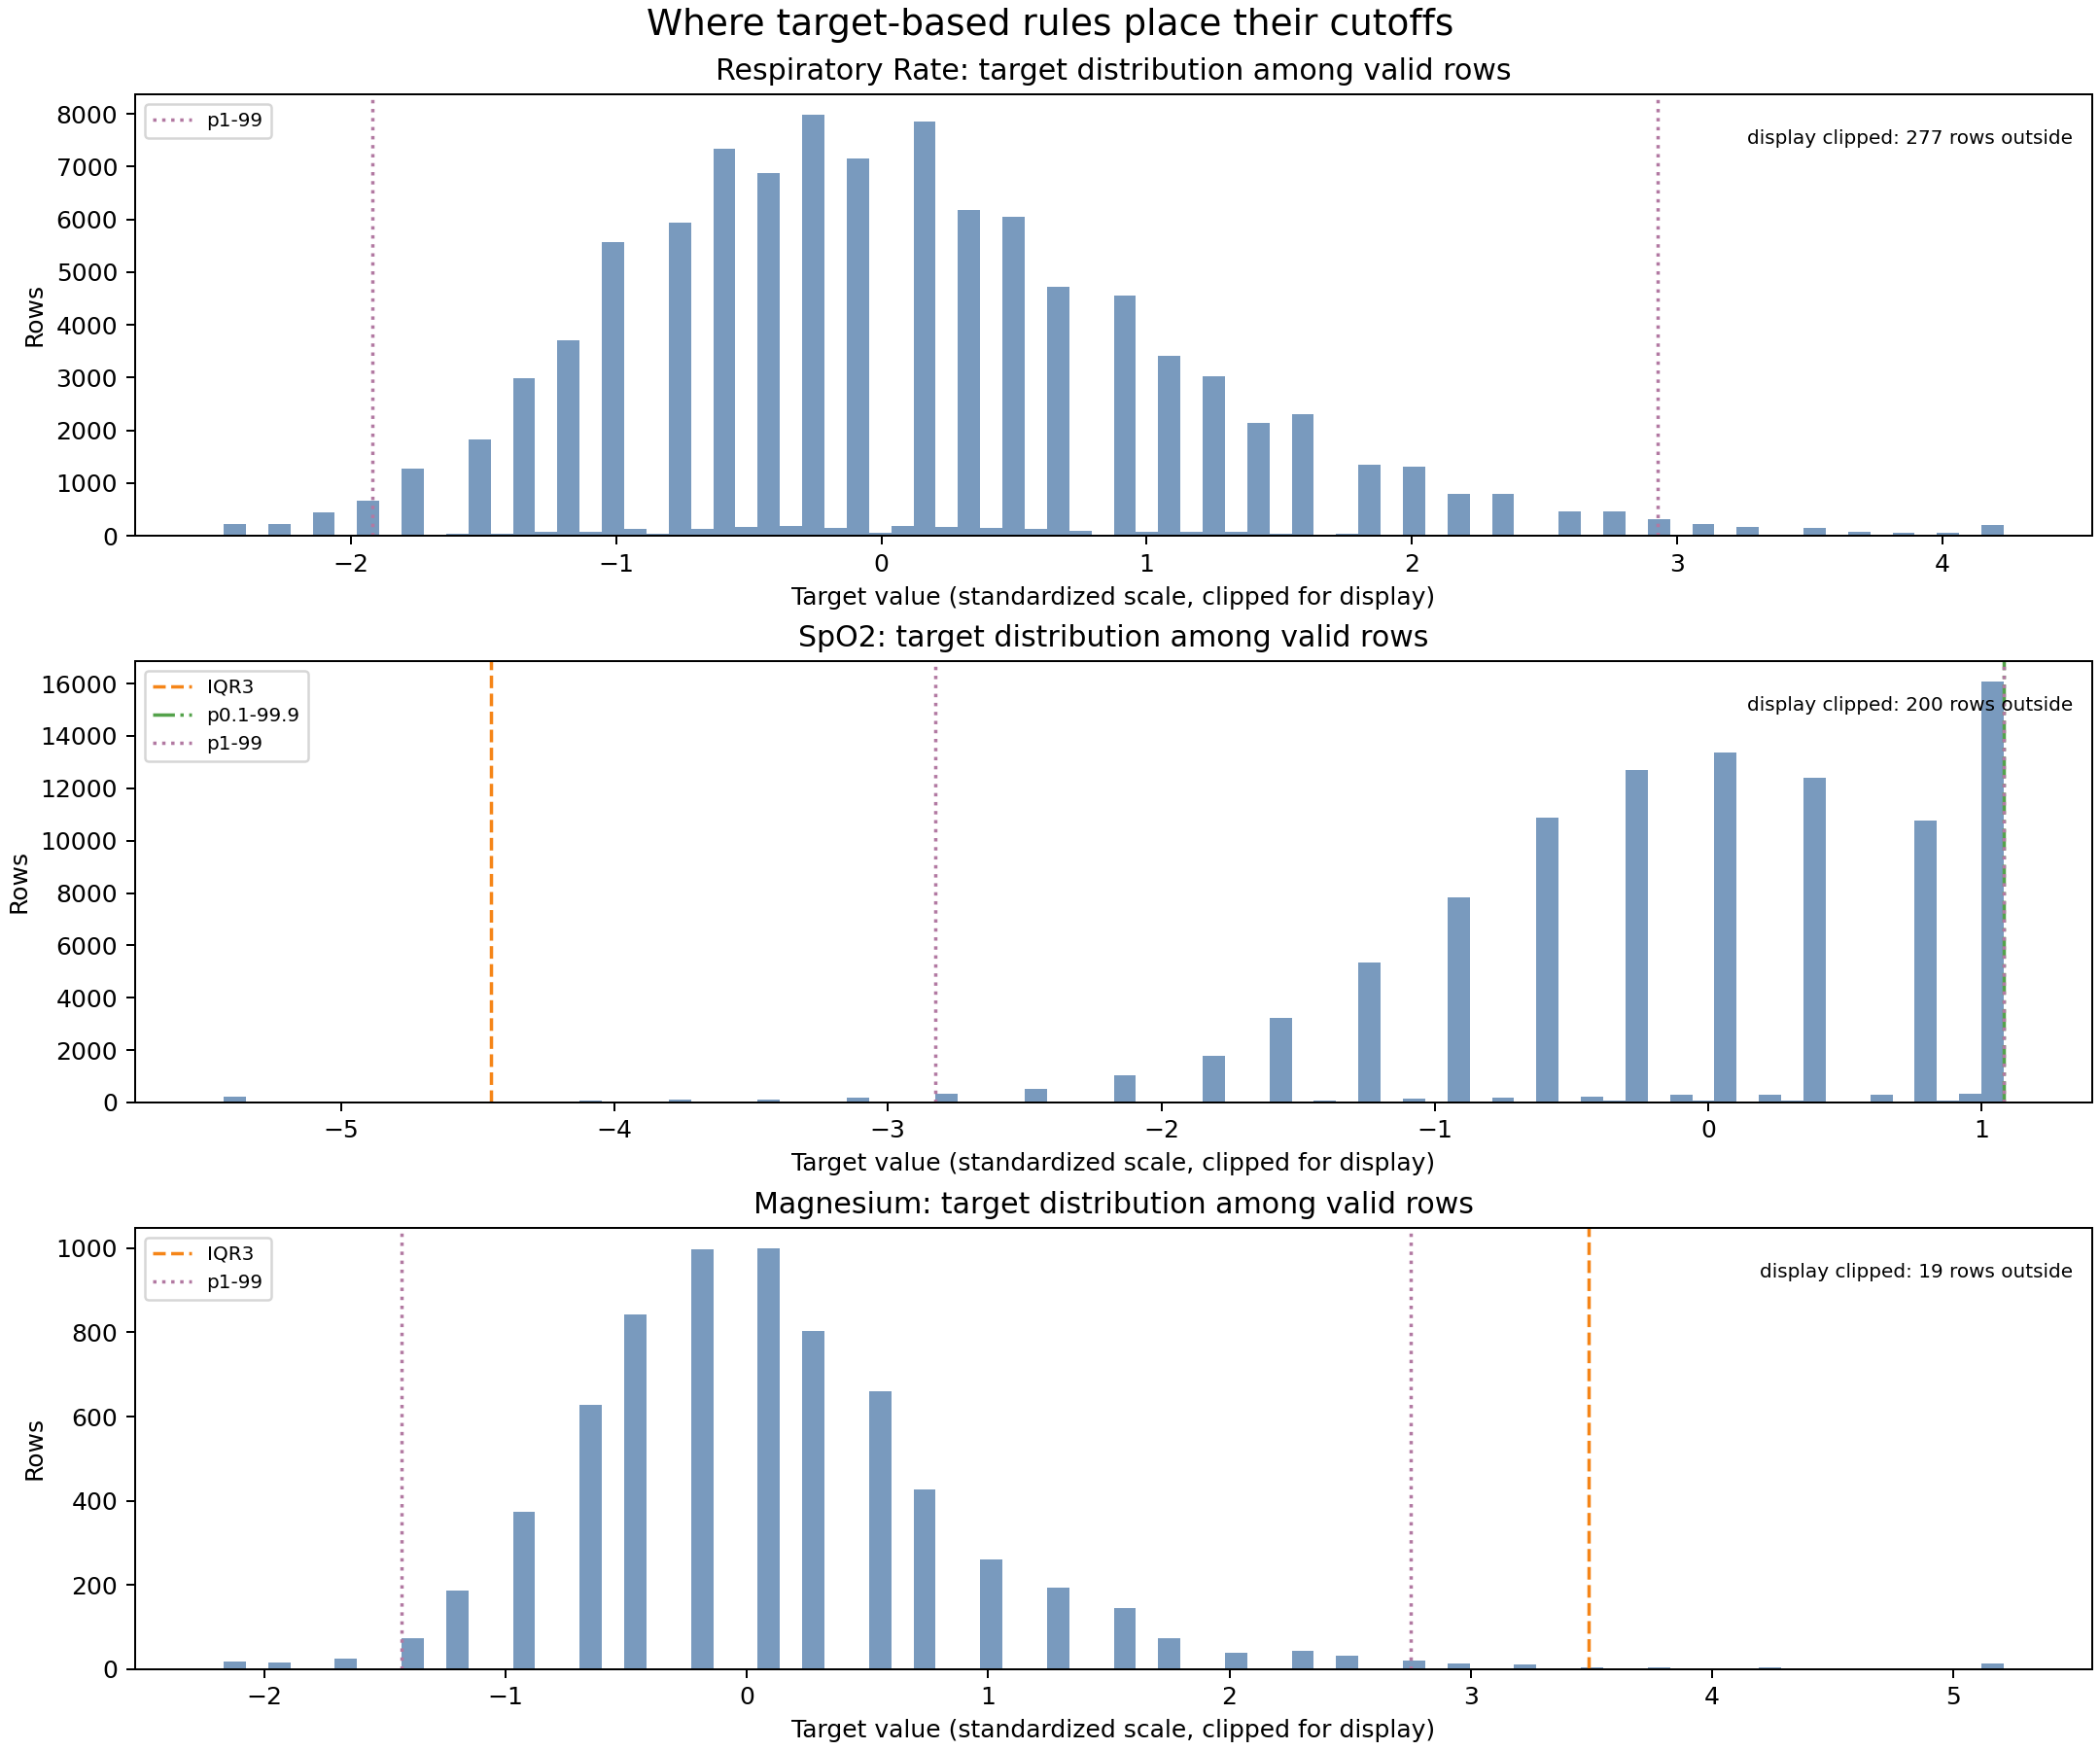
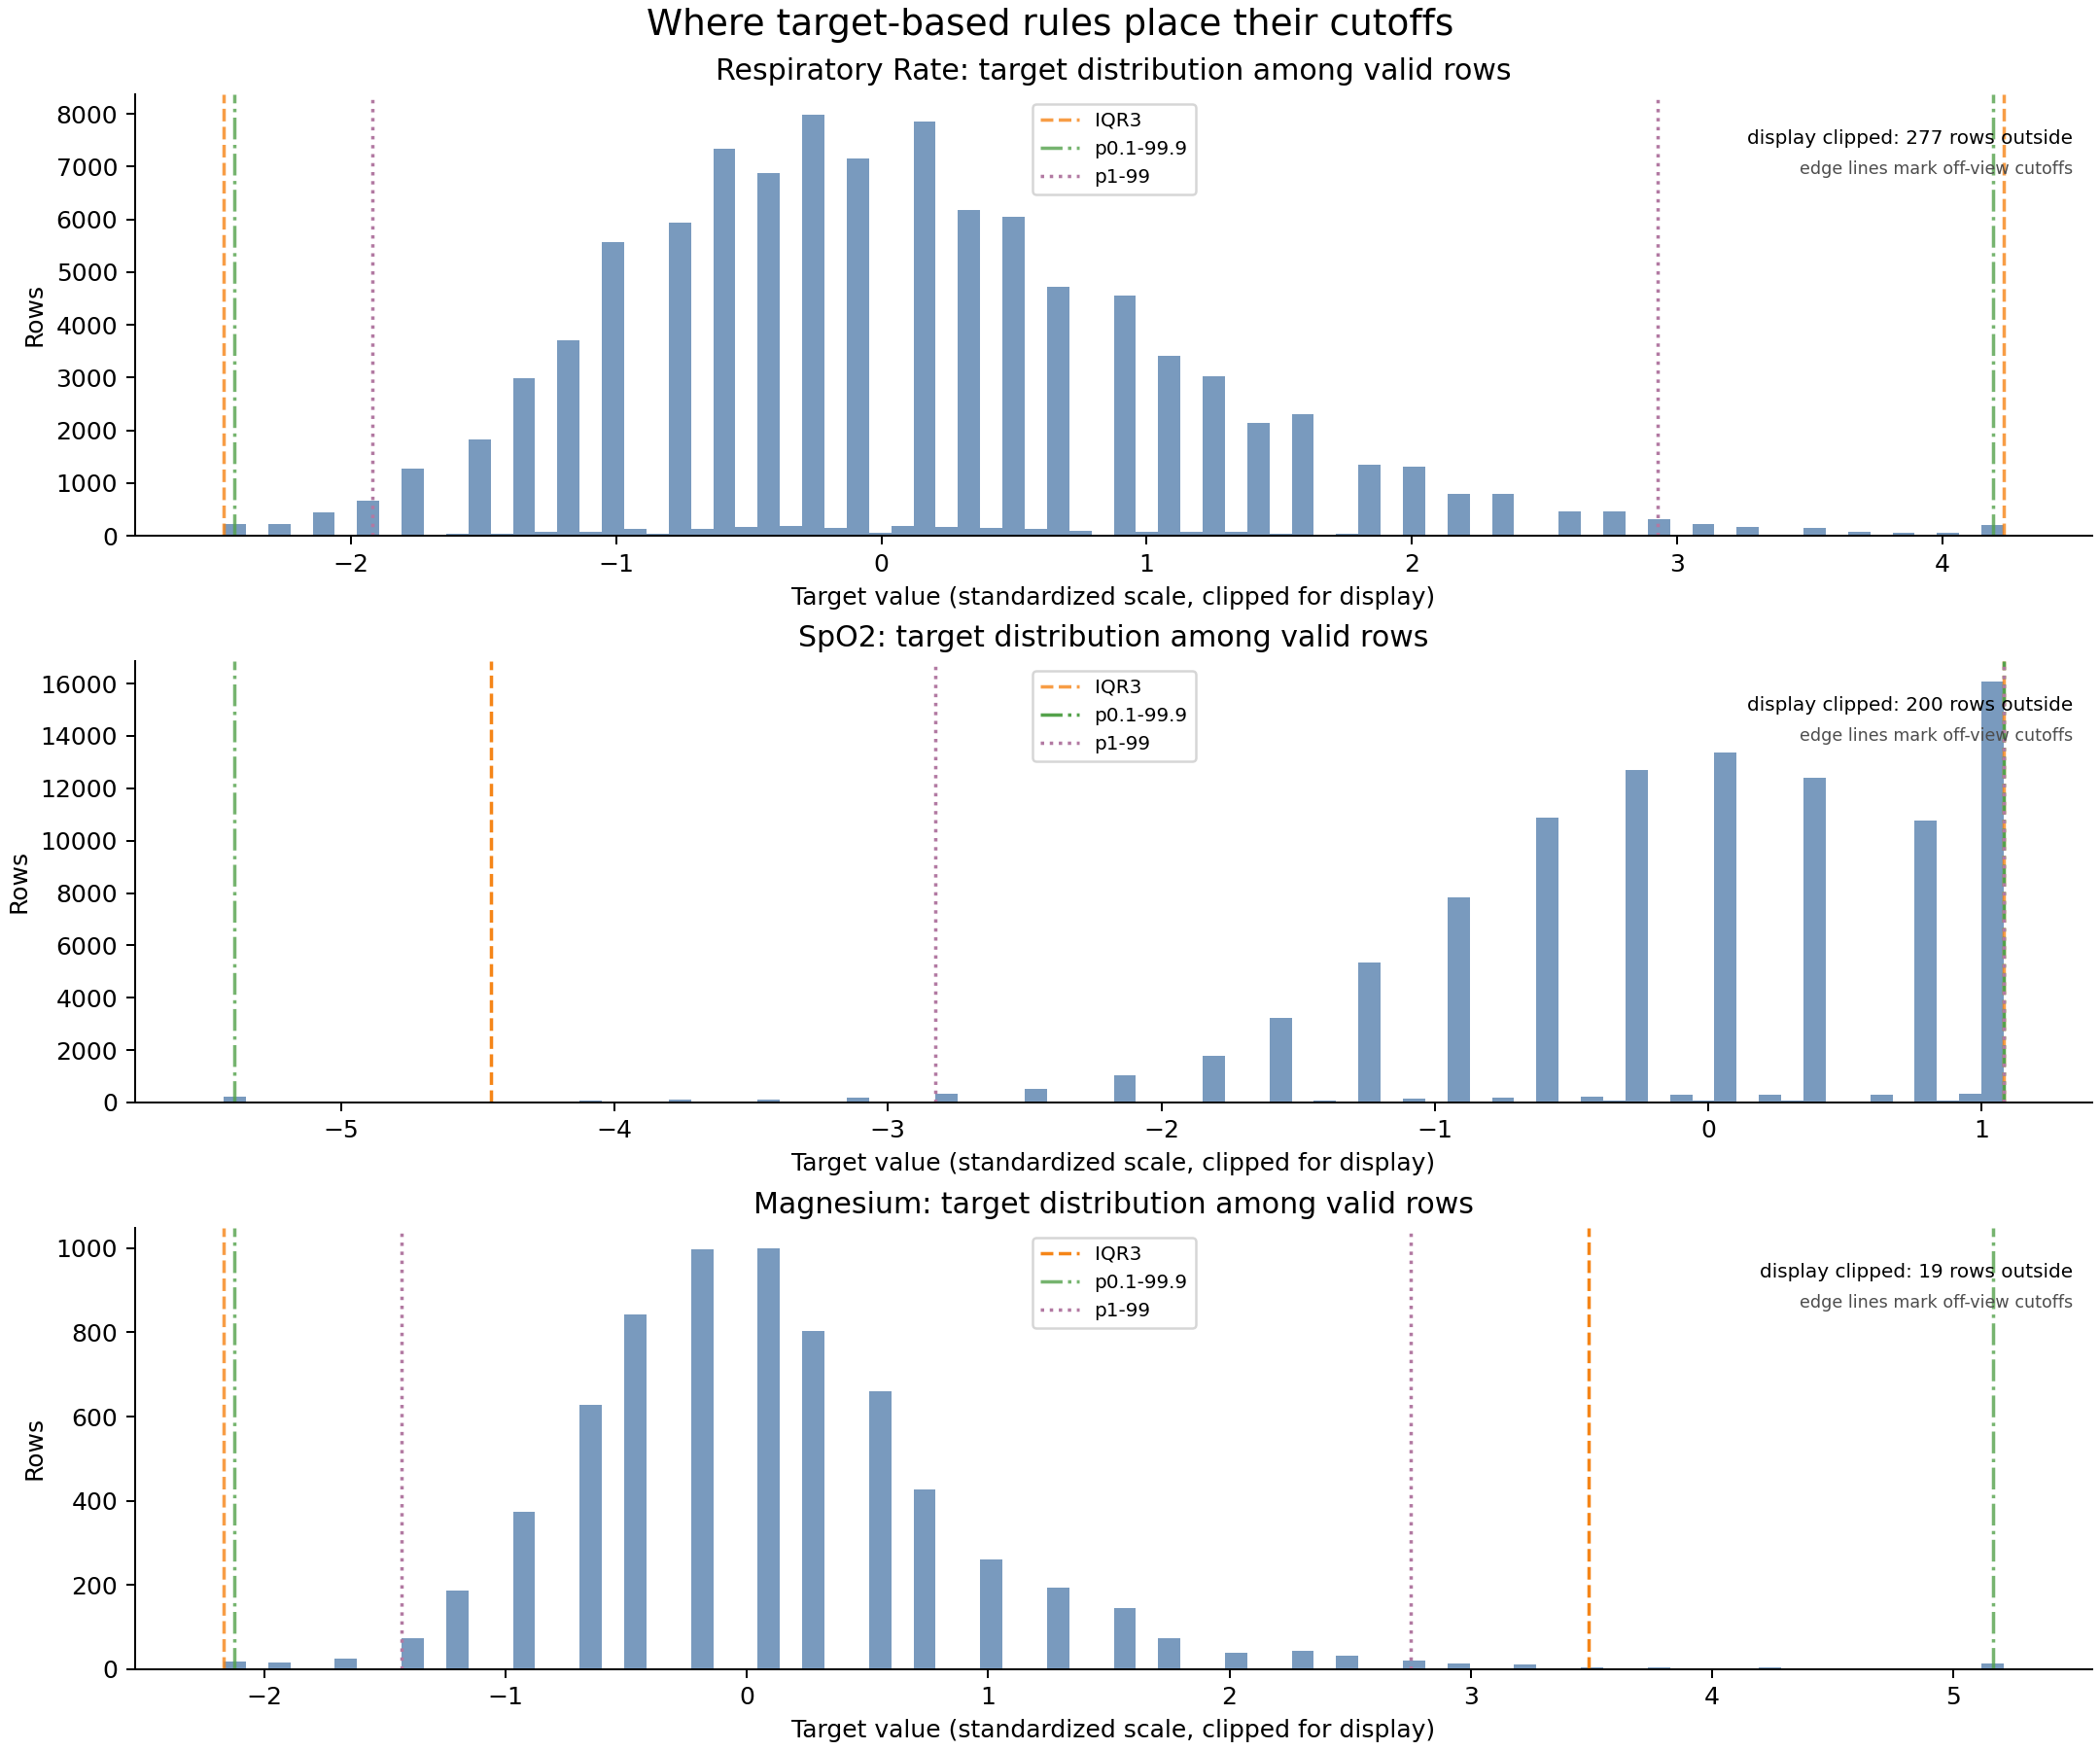
Clarify clipped outlier cutoff displays
Show target-rule cutoffs even when the true threshold falls outside the clipped histogram window, so figure readers do not infer that a rule lacks a boundary.

Constraint: Existing outlier-analysis figure uses clipped target distributions for display readability.

Rejected: Expanding histogram limits to include every threshold | would make dense target distributions harder to read.

Confidence: high

Scope-risk: narrow

Directive: Keep out-of-view cutoffs visibly encoded whenever histogram display limits intentionally clip tails.

Tested: conda run -n dtgpt-vllm python -m py_compile plot/generate_outlier_removal_visuals_40131.py; conda run -n dtgpt-vllm python plot/generate_outlier_removal_visuals_40131.py; visual QA of regenerated threshold PNG.

Not-tested: Full paper rebuild or downstream manuscript export.

diff --git a/plot/generate_outlier_removal_visuals_40131.py b/plot/generate_outlier_removal_visuals_40131.py
@@ -16,12 +16,27 @@ LOG_DIR = ROOT / "logs"
 LOG_GLOB = "mimic_dora_paper_r2_vllm_shard_40131_*.out"
 OUT_DIR = ROOT / "plot" / "64_2epoch_30sample_40131"
 OUT_DIR.mkdir(parents=True, exist_ok=True)
+ANALYSIS_DIR = OUT_DIR / "outlier_analysis"
+ANALYSIS_DIR.mkdir(parents=True, exist_ok=True)
 
 matplotlib_cache_dir = Path(os.environ.get("TMPDIR", "/tmp")) / "dtgpt_matplotlib"
 matplotlib_cache_dir.mkdir(parents=True, exist_ok=True)
 os.environ.setdefault("MPLCONFIGDIR", str(matplotlib_cache_dir))
 
 import matplotlib.pyplot as plt
+
+
+plt.rcParams.update(
+    {
+        "font.family": "sans-serif",
+        "font.sans-serif": ["Arial", "Helvetica", "DejaVu Sans", "sans-serif"],
+        "svg.fonttype": "none",
+        "pdf.fonttype": 42,
+        "axes.spines.right": False,
+        "axes.spines.top": False,
+        "axes.linewidth": 0.8,
+    }
+)
 
 
 VARIABLES = {
@@ -251,7 +266,7 @@ def plot_accounting(accounting: pd.DataFrame) -> Path:
     axes[-1].set_xticks(x)
     axes[-1].set_xticklabels(labels, fontsize=8)
     fig.suptitle("Deletion accounting: kept vs outlier-removed vs missing rows", fontsize=15)
-    path = OUT_DIR / "outlier_removal_accounting_40131_30sample.png"
+    path = ANALYSIS_DIR / "outlier_removal_accounting_40131_30sample.png"
     fig.savefig(path, dpi=180)
     plt.close(fig)
     return path
@@ -272,10 +287,31 @@ def plot_removed_counts(accounting: pd.DataFrame) -> Path:
     ax.set_ylabel("Rows removed among valid rows")
     ax.set_title("Actual outlier-rule removals only (missing rows excluded)")
     ax.legend()
-    path = OUT_DIR / "outlier_removed_counts_only_40131_30sample.png"
+    path = ANALYSIS_DIR / "outlier_removed_counts_only_40131_30sample.png"
     fig.savefig(path, dpi=180)
     plt.close(fig)
     return path
+
+
+def draw_cutoff_line(
+    ax,
+    value: float,
+    low_clip: float,
+    high_clip: float,
+    color: str,
+    style: str,
+    label: str,
+    offscreen_slot: int,
+) -> None:
+    """Draw visible cutoff lines; pin off-view cutoffs to the display edge."""
+    if low_clip <= value <= high_clip:
+        ax.axvline(value, color=color, linestyle=style, linewidth=1.4, label=label)
+        return
+
+    span = high_clip - low_clip
+    inset = span * 0.006 * offscreen_slot
+    edge = low_clip + inset if value < low_clip else high_clip - inset
+    ax.axvline(edge, color=color, linestyle=style, linewidth=1.4, alpha=0.8, label=label)
 
 
 def plot_target_distributions(target: pd.DataFrame, pred: pd.DataFrame, bounds_df: pd.DataFrame) -> Path:
@@ -295,18 +331,18 @@ def plot_target_distributions(target: pd.DataFrame, pred: pd.DataFrame, bounds_d
         ax.set_title(f"{variable}: target distribution among valid rows")
         ax.set_ylabel("Rows")
         ax.set_xlabel("Target value (standardized scale, clipped for display)")
-        for bound_name, (color, style, label) in line_styles.items():
+        for offscreen_slot, (bound_name, (color, style, label)) in enumerate(line_styles.items()):
             row = bounds_df[(bounds_df["variable_code"] == code) & (bounds_df["bound"] == bound_name)].iloc[0]
             for value in [row["low"], row["high"]]:
-                if low_clip <= value <= high_clip:
-                    ax.axvline(value, color=color, linestyle=style, linewidth=1.4, label=label)
+                draw_cutoff_line(ax, value, low_clip, high_clip, color, style, label, offscreen_slot)
         handles, labels = ax.get_legend_handles_labels()
         unique = dict(zip(labels, handles))
         ax.legend(unique.values(), unique.keys(), fontsize=8)
         outside = int(((valid_values < low_clip) | (valid_values > high_clip)).sum())
         ax.text(0.99, 0.92, f"display clipped: {outside} rows outside", transform=ax.transAxes, ha="right", va="top", fontsize=8)
+        ax.text(0.99, 0.85, "edge lines mark off-view cutoffs", transform=ax.transAxes, ha="right", va="top", fontsize=7, color="#4D4D4D")
     fig.suptitle("Where target-based rules place their cutoffs", fontsize=15)
-    path = OUT_DIR / "outlier_target_distribution_thresholds_40131_30sample.png"
+    path = ANALYSIS_DIR / "outlier_target_distribution_thresholds_40131_30sample.png"
     fig.savefig(path, dpi=180)
     plt.close(fig)
     return path
@@ -341,15 +377,15 @@ These plots separate three different concepts that were previously easy to confu
 
 ### Figures
 
-![Deletion accounting](outlier_removal_accounting_40131_30sample.png)
+![Deletion accounting](outlier_analysis/outlier_removal_accounting_40131_30sample.png)
 
 **Figure A.** Full accounting for each variable and rule. Gray means missing/invalid before any outlier rule. Orange is the actual rule deletion. This shows Magnesium has many missing rows, not many IQR-deleted rows.
 
-![Actual removed counts](outlier_removed_counts_only_40131_30sample.png)
+![Actual removed counts](outlier_analysis/outlier_removed_counts_only_40131_30sample.png)
 
 **Figure B.** Actual outlier-rule deletion counts only, after excluding missing rows. This is the cleanest plot for answering which method deletes how much valid data.
 
-![Target thresholds](outlier_target_distribution_thresholds_40131_30sample.png)
+![Target thresholds](outlier_analysis/outlier_target_distribution_thresholds_40131_30sample.png)
 
 **Figure C.** Target value distributions and target-based cutoff lines. This shows where IQR3 and percentile rules draw their boundaries on the standardized scale.
 